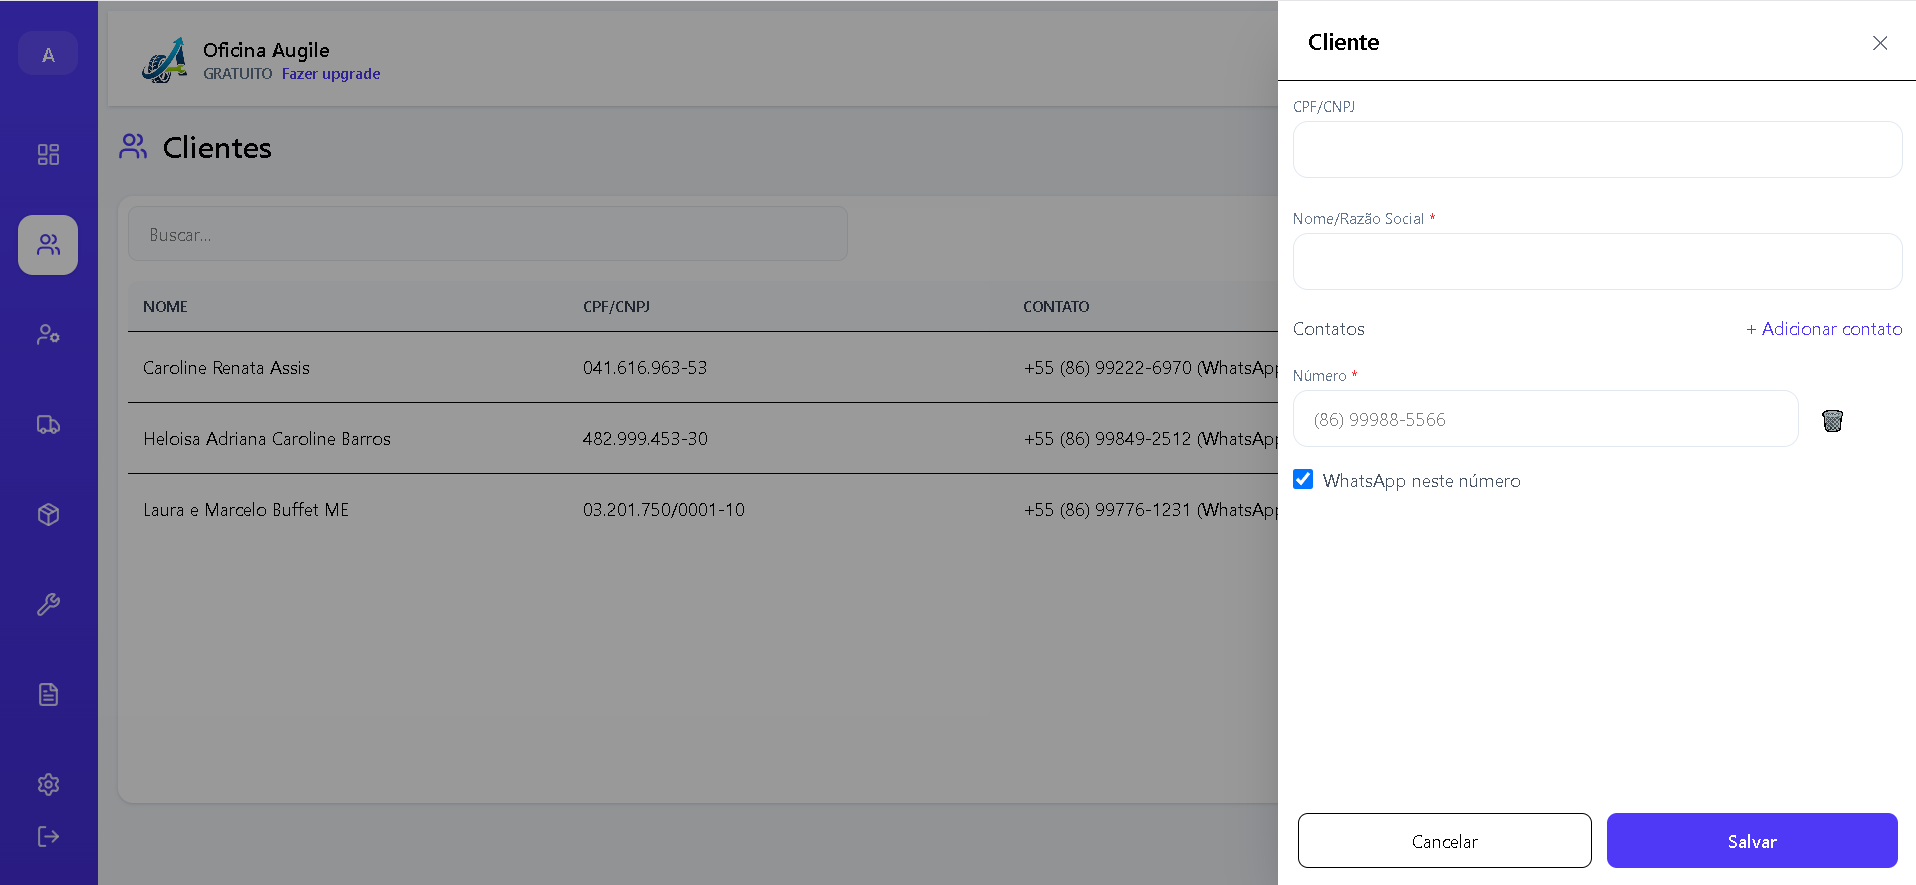
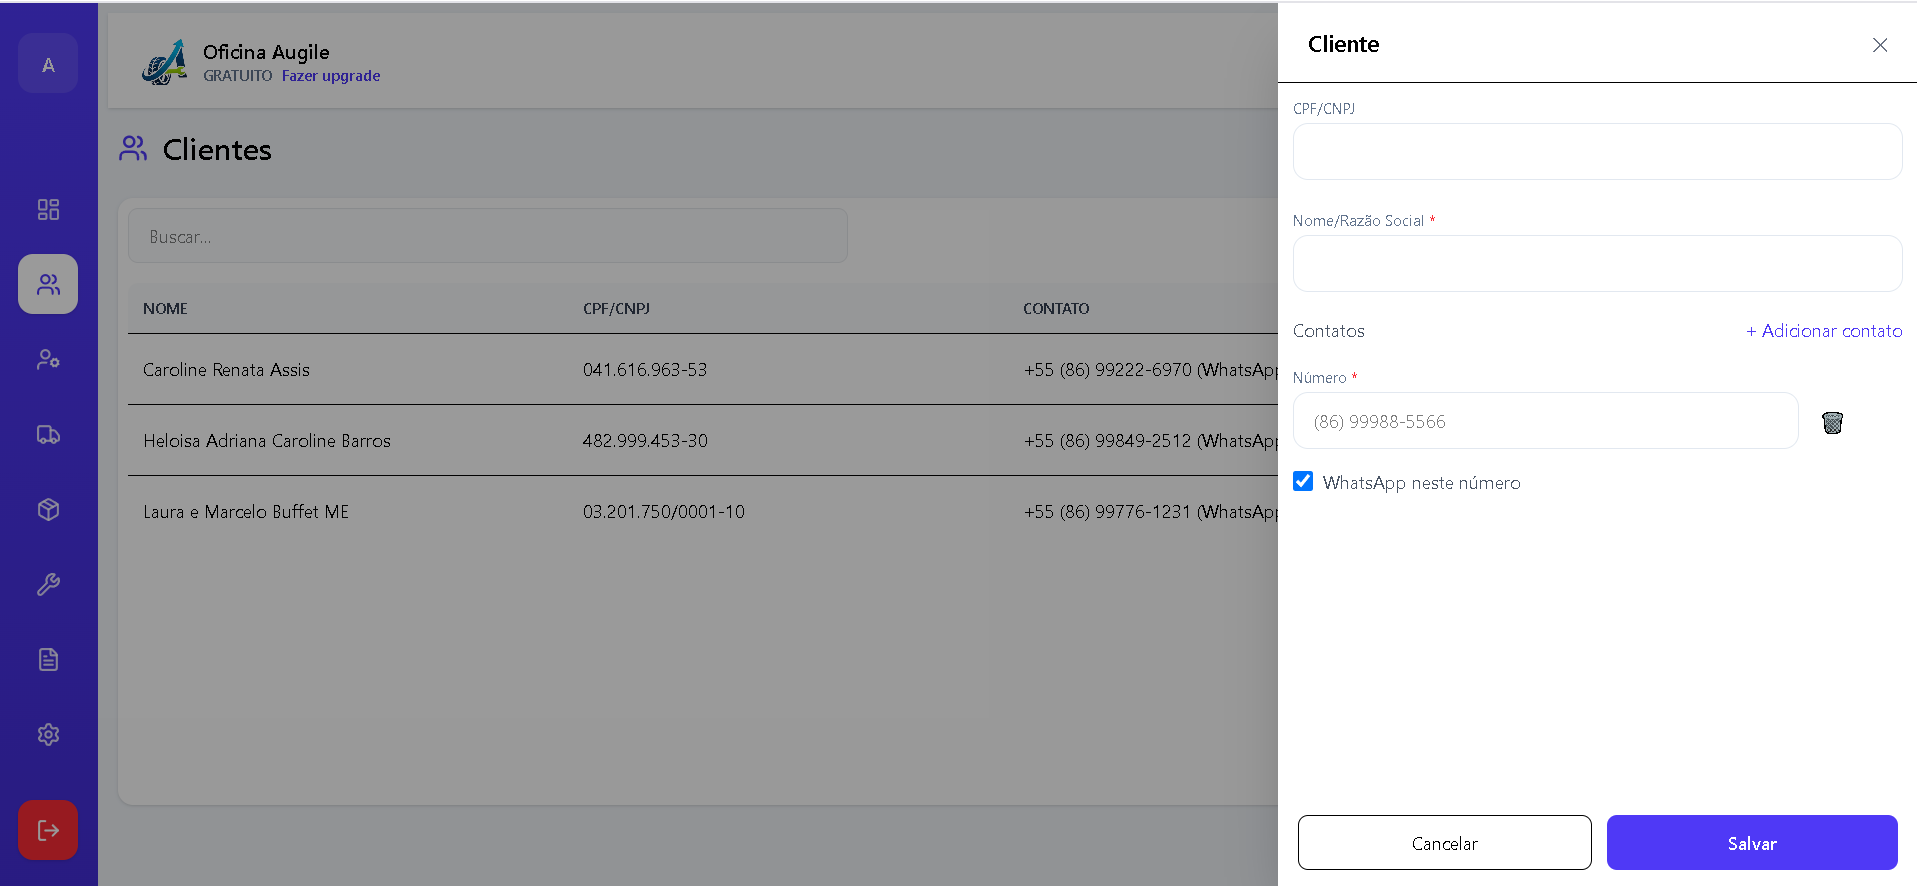
ajuste das tela da aplicação e no texto do questionario

diff --git a/app/data/landing.ts b/app/data/landing.ts
@@ -19,25 +19,59 @@ export const showcaseItems = [
     points: ['Marca e modelo do veículo', 'Ano, placa e cor', 'Chassi como informação opcional']
   },
   {
-    id: 'historico', label: 'Clientes e veículos', icon: 'users',
-    title: 'Consulte clientes, veículos e serviços juntos',
-    description: 'Acesse os dados do cliente e encontre os veículos vinculados sem procurar em papéis.',
-    points: ['Dados do cliente centralizados', 'Veículos vinculados ao proprietário', 'Consulta dos serviços por veículo']
+    id: 'ordens', label: 'Ordens de serviço', icon: 'clipboard',
+    title: 'Monte a ordem de serviço em uma única tela',
+    description: 'Reúna cliente, veículo, serviços, produtos e condições de pagamento antes de finalizar a ordem.',
+    points: ['Serviços e produtos na mesma ordem', 'Condições de pagamento visíveis', 'Total calculado antes da finalização']
   },
   {
-    id: 'servicos', label: 'Serviços', icon: 'wrench',
-    title: 'Prepare orçamentos com mais agilidade',
-    description: 'Cadastre os serviços usados pela oficina e reutilize as informações.',
-    points: ['Serviços padronizados', 'Menos digitação repetida', 'Atendimento mais ágil']
+    id: 'estoque', label: 'Produtos e estoque', icon: 'wrench',
+    title: 'Cadastre produtos e controle seus dados de venda',
+    description: 'Organize as informações comerciais do produto e indique se ele possui estoque.',
+    points: ['Custo, margem e preço de venda', 'Fornecedor e unidade de venda', 'Controle de produto ativo e estoque']
+  },
+  {
+    id: 'fornecedores', label: 'Fornecedores', icon: 'users',
+    title: 'Mantenha os fornecedores organizados',
+    description: 'Consulte os fornecedores da oficina e cadastre novos contatos sem sair da listagem.',
+    points: ['Busca rápida por fornecedor', 'Contato centralizado', 'Acesso ao cadastro de produtos']
   }
 ] as const
 
 export const faqItems = [
-  { question: 'O plano gratuito tem prazo para acabar?', answer: 'Não. O plano Gratuito é disponibilizado sem prazo para acabar, respeitando os limites apresentados na seção de planos.' },
-  { question: 'Preciso cadastrar cartão para começar?', answer: 'Não. O cadastro do plano Gratuito e o início do teste não pedem cartão.' },
-  { question: 'O que acontece depois dos 14 dias de teste?', answer: 'Essa regra não está descrita no site nem no contrato disponível para a landing. Confirme com o suporte antes de iniciar o teste.' },
-  { question: 'Posso mudar de plano depois?', answer: 'A Augile apresenta planos para diferentes momentos da oficina. As regras de troca ainda precisam ser confirmadas com o suporte.' },
-  { question: 'Meus dados ficam salvos se eu mudar de plano?', answer: 'A regra de retenção de dados ao trocar de plano não está documentada neste projeto. O suporte pode confirmar como funciona para o seu caso.' },
-  { question: 'Como recebo o acesso?', answer: 'Depois do cadastro, o link de acesso e o código para entrar são enviados pelo WhatsApp informado.' },
-  { question: 'A Augile funciona no celular?', answer: 'Sim. O acesso é feito pela web e a interface pode ser usada no celular.' }
+  {
+    question: 'O plano gratuito tem prazo para acabar?',
+    answer:
+      'Não. O plano gratuito não possui prazo de encerramento, desde que sejam respeitados os limites apresentados na seção de planos.',
+  },
+  {
+    question: 'Preciso cadastrar um cartão para começar?',
+    answer:
+      'Não. Você pode criar sua conta e iniciar o período de teste sem cadastrar um cartão.',
+  },
+  {
+    question: 'O que acontece depois dos 14 dias de teste?',
+    answer:
+      'Após os 14 dias, sua conta será transferida automaticamente para o plano gratuito. Os limites de serviços, usuários e ordens de serviço serão ajustados conforme as condições desse plano.',
+  },
+  {
+    question: 'Posso mudar de plano depois?',
+    answer:
+      'Sim. Você pode mudar de plano quando desejar, sem perder os dados cadastrados.',
+  },
+  {
+    question: 'Meus dados ficam salvos se eu mudar de plano?',
+    answer:
+      'Sim. Seus dados permanecem salvos. Apenas os recursos e limites disponíveis serão ampliados ou reduzidos de acordo com o plano escolhido.',
+  },
+  {
+    question: 'Como recebo o acesso?',
+    answer:
+      'Após concluir o cadastro, você receberá um link para acessar a plataforma e configurar sua conta.',
+  },
+  {
+    question: 'A Augile funciona no celular?',
+    answer:
+      'Sim. A Augile utiliza a tecnologia PWA, que permite acessar a plataforma pelo navegador e adicionar um atalho à tela inicial do celular, proporcionando uma experiência semelhante à de um aplicativo.',
+  },
 ] as const

diff --git a/app/components/landing/HeroSection.vue b/app/components/landing/HeroSection.vue
@@ -13,13 +13,15 @@
         <p class="mt-4 text-sm font-medium text-slate-500">Plano gratuito para sempre <span aria-hidden="true">•</span> Sem cartão <span aria-hidden="true">•</span> Cancele quando quiser</p>
       </div>
       <div class="relative mx-auto w-full max-w-2xl">
-        <!-- TODO: substituir esta prévia pela captura oficial do dashboard quando o asset for disponibilizado. -->
         <div class="overflow-hidden rounded-[20px] border border-slate-200 bg-white shadow-2xl shadow-blue-950/10">
           <div class="flex h-11 items-center gap-2 border-b border-slate-200 bg-slate-50 px-4"><span class="size-2.5 rounded-full bg-slate-300" /><span class="size-2.5 rounded-full bg-slate-300" /><span class="size-2.5 rounded-full bg-slate-300" /><span class="ml-3 text-xs font-medium text-slate-500">Painel Augile</span></div>
-          <div class="grid min-h-82 grid-cols-[68px_1fr] bg-slate-50 sm:grid-cols-[150px_1fr]">
-            <div class="border-r border-slate-200 bg-slate-950 p-3 sm:p-4"><div class="mb-8 h-5 rounded bg-blue-500/80" /><div v-for="n in 5" :key="n" class="mb-3 h-3 rounded bg-white/10" /></div>
-            <div class="p-4 sm:p-6"><p class="text-xs font-semibold uppercase tracking-wider text-slate-500">Visão da oficina</p><h2 class="mt-1 text-xl font-bold text-slate-900">Resumo do dia</h2><div class="mt-5 grid gap-3 sm:grid-cols-2"><div class="rounded-xl border border-slate-200 bg-white p-4"><LandingIcon name="clipboard" class="mb-4 size-6 text-blue-600" /><p class="font-bold text-slate-900">Ordens de serviço</p><p class="mt-1 text-xs text-slate-500">Acompanhe os serviços em andamento</p></div><div class="rounded-xl border border-slate-200 bg-white p-4"><LandingIcon name="calendar" class="mb-4 size-6 text-blue-600" /><p class="font-bold text-slate-900">Agenda</p><p class="mt-1 text-xs text-slate-500">Consulte os atendimentos do dia</p></div></div><div class="mt-3 h-20 rounded-xl border border-slate-200 bg-white p-4"><div class="h-2 w-2/3 rounded bg-slate-200" /><div class="mt-3 h-2 w-4/5 rounded bg-slate-100" /></div></div>
-          </div>
+          <img
+            src="~/assets/imgs/ordem_servico.png"
+            alt="Tela da Augile para criar uma ordem de serviço"
+            class="aspect-[1881/885] h-auto w-full object-cover object-left-top"
+            width="1881"
+            height="885"
+          >
         </div>
       </div>
     </div>

diff --git a/app/components/landing/ProductShowcase.vue b/app/components/landing/ProductShowcase.vue
@@ -45,15 +45,17 @@
 <script setup lang="ts">
 import telaCliente from '~/assets/imgs/tela_cliente.png'
 import telaClienteAddVeiculo from '~/assets/imgs/tela_cliente_add_veiculo.png'
-import telaClienteVeiculo from '~/assets/imgs/tela_cliente_veiculo.png'
-import telaServicos from '~/assets/imgs/tela_serviços.png'
+import ordemServico from '~/assets/imgs/ordem_servico.png'
+import cadastroProdutoEstoque from '~/assets/imgs/cadastro_produto_e_estoque.png'
+import telaFornecedores from '~/assets/imgs/tela_fornecedores.png'
 import { showcaseItems } from '~/data/landing'
 
 const showcaseImages: Record<(typeof showcaseItems)[number]['id'], string> = {
   clientes: telaCliente,
   veiculos: telaClienteAddVeiculo,
-  historico: telaClienteVeiculo,
-  servicos: telaServicos
+  ordens: ordemServico,
+  estoque: cadastroProdutoEstoque,
+  fornecedores: telaFornecedores
 }
 
 const active = ref(0)
